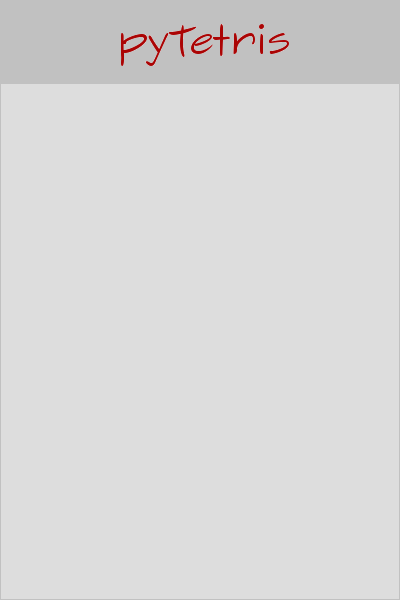
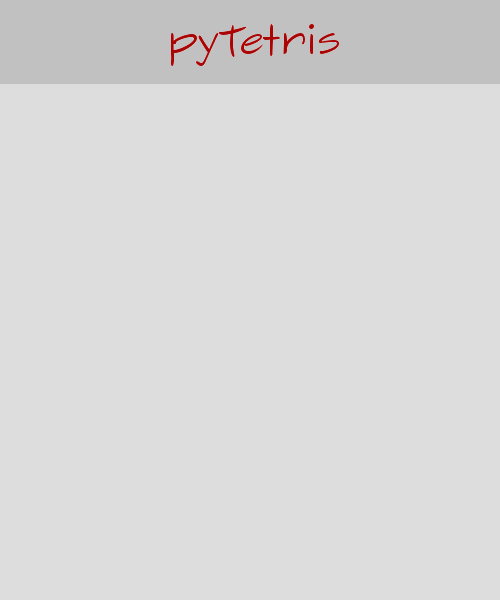
Linked classes
All classes will now link. You now start the application with Splash.py
instead of Tetris.py. Reason for this is because I want to keep splash
in separate file as this can be reused over and over again. Also started
with highscore and reading in data.

Changed region(s): [[0.0, 0.15, 1.0, 1.0], [0.3, 0.03, 0.72, 0.12]]

diff --git a/Tetris.py b/Tetris.py
@@ -1,3 +1,5 @@
+#!/usr/bin/env python
+# -*- coding: cp1252 -*-
 """
 Program created by mattias Didriksson as a project in "Multimediaprogrammering i Python".
 OS: Windows 7
@@ -7,8 +9,6 @@ This is a simple Tetris clone, made from scratch by me.
 
 """
 
-#! /usr/bin/env python
-#-*-coding:utf-8-*- 
 
 
 
@@ -20,8 +20,11 @@ from operator import itemgetter
 #The GUI class responsible for most of the program. Reason for that is because the GUI is such a central part of a program like Tetris.
 class GUI:
 	#A function which will initiate the class. I.e. set up windows, initiate attributes etc.
-	def init(self):
+	def init(self, sentScreen):
 		pygame.init()
+		
+		self.screen = sentScreen
+		self.screen.fill((0,0,0))
 		
 		self.nextPieces = []
 		
@@ -90,9 +93,7 @@ class GUI:
 
 		
 		
-		self.screen = pygame.display.set_mode((440,528), False)
-		
-		self.screen.blit(self.background, (0,0))
+		self.screen.blit(self.background, (24,0))
 		
 		self.newPiece()
 		self.newPiece()
@@ -107,32 +108,32 @@ class GUI:
 		
 		
 		self.displayLevel = self.scoreFont.render(str(self.level).rjust(2,"0"), True, (0,255,0))
-		self.screen.blit(self.displayLevel, (372, 43))
+		self.screen.blit(self.displayLevel, (387, 43))
 		
-		self.screen.blit(self.levelText, (270, 50))
+		self.screen.blit(self.levelText, (294, 50))
 		
-		self.screen.blit(self.scoreText, (290,140))
+		self.screen.blit(self.scoreText, (314,140))
 		
 		self.score = self.scoreFont.render(str(self.currentScore).rjust(7,"0"), True, (0,255,0))
-		self.screen.blit(self.score, (270,175))
+		self.screen.blit(self.score, (294,175))
 		
 		self.linesScore = self.scoreFont.render(str(self.linesCleared).rjust(3,"0"), True, (0,255,0))
-		self.screen.blit(self.linesScore, (354,90))
-		self.screen.blit(self.linesText, ( 270, 98))
+		self.screen.blit(self.linesScore, (378,90))
+		self.screen.blit(self.linesText, ( 294, 98))
 
 
 	
 	#Just as the name states this will take of redrawing the board.	
 	def reDraw(self):
-		self.screen.blit(self.background,(0,0))
+		self.screen.blit(self.background,(24,0))
 		self.updateScore()
 		for indexLine, line in enumerate(self.playArea):
 			y = indexLine * 24
 			for indexCol, item in enumerate(line):
-				x = indexCol * 24
+				x = indexCol * 24 + 24
 				if(item != "EMPTY"):
 					self.screen.blit(item, (x,y))
-					self.screen.blit(gui.topCover,(0,0))
+					self.screen.blit(gui.topCover,(24,0))
 					
 		self.piecesList()
 	
@@ -1480,25 +1481,25 @@ class GUI:
 		randomedPiece = random.randint(0, 6)
 		if randomedPiece == 0:
 			self.nextPieces.append(self.REVERSELMINI)
-			# self.addPiece("reverseL")
+
 		elif randomedPiece == 1:
 			self.nextPieces.append(self.LPIECEMINI)
-			# self.addPiece("L")
+
 		elif randomedPiece == 2:
 			self.nextPieces.append(self.LINEPIECEMINI)
-			# self.addPiece("linePiece")
+
 		elif randomedPiece == 3:
 			self.nextPieces.append(self.ZPIECEMINI)
-			# self.addPiece("zPiece")
+
 		elif randomedPiece == 4:
 			self.nextPieces.append(self.REVERSEZMINI)
-			# self.addPiece("reverseZ")
+
 		elif randomedPiece == 5:
 			self.nextPieces.append(self.SQUAREMINI)
-			# self.addPiece("square")
+		
 		elif randomedPiece == 6:
 			self.nextPieces.append(self.TPIECEMINI)
-			# self.addPiece("tPiece")
+			
 			
 	def levelUp(self):
 		self.level = self.level + 1
@@ -1508,7 +1509,7 @@ class GUI:
 	#Handles display of the coming pieces
 	def piecesList(self):
 		for index, item in enumerate(self.nextPieces):
-			self.screen.blit(item, (310,((index + 1) * 80 + 180)))
+			self.screen.blit(item, (334,((index + 1) * 80 + 180)))
 		
 		
 	
@@ -1528,13 +1529,14 @@ class Main:
 	#The main part of the program. The loop which will handle everything from updates to event-handling.
 	def loop(self):
 
-			
+		self.quit = False	
 		while self.running:
 			
 			for e in pygame.event.get():
 			
 				if e.type == QUIT:
 					self.running = False
+					self.quit = True
 				
 				if e.type == self.GAMEEVENT:
 					gui.lineDown()
@@ -1565,22 +1567,52 @@ class Main:
 			
 			
 			if self.gameOver:
-				gui.screen.blit(gui.gameOverImage, (45,60))
+				gui.screen.blit(gui.gameOverImage, (70,60))
 			
 			else:
 				gui.reDraw()
 				
 			self.clock.tick(40)
 			pygame.display.flip()
-				
-
-
-		pygame.quit()
-
-
 		
+		return self.quit
+
+
+class LoadData:
+
+
+	def readData(self):
+		self.highscoreList = []
+		self.newPlayer = True
+		try:
+			the_file = open("data.txt", "r")
+		except(IOError), e:
+			print "Nu gick något fel!", e
+			raw_input("Tryck på valfri tangent för att avsluta.")
+			sys.exit()
+		else:
+
+			for line in the_file:
+				if self.newPlayer:
+					self.player = line
+					self.player = self.player.replace("\n", "")
+					self.newPlayer = False
+				elif not self.newPlayer:
+					self.score = line
+					self.score = self.score.replace("\n", "")
+					self.newPlayer = True
+					self.highscoreList.append((self.player, self.score))
+
+			the_file.close()
+		return self.highscoreList		
+
+
+def start(screen):
+	gui.init(screen)
+	main.init()
+	shouldQuit = main.loop()
+	return shouldQuit
+	 
+
 gui = GUI()
 main = Main()
-gui.init()
-main.init()
-main.loop()

diff --git a/Splash.py b/Splash.py
@@ -1,5 +1,5 @@
 #! /usr/bin/env python
-import pygame, random, os.path
+import pygame, random, os.path, Tetris
 from pygame.locals import *
 from Tkinter import *
 from operator import itemgetter
@@ -7,7 +7,7 @@ from operator import itemgetter
 class Splash:
 	def init(self):
 		pygame.init()
-		self.screen = pygame.display.set_mode((400,200), False)
+		self.screen = pygame.display.set_mode((500,600), False)
 		self.background = pygame.Surface(self.screen.get_size())
 
 		self.finnished = False
@@ -26,9 +26,9 @@ class Splash:
 				self.background.fill((0,0,0))
 				self.screen.fill((0,0,0))
 				self.splashImage.set_alpha(self.count)
-				self.screen.blit(self.splashImage,(0,0))
+				self.screen.blit(self.splashImage,(50,150))
 				pygame.display.flip()
-				print self.count
+				self.count = self.count - 1
 				if self.count <0:
 					self.fadeIn = False
 					self.running = False
@@ -38,7 +38,7 @@ class Splash:
 				self.background.fill((0,0,0))
 				self.screen.fill((0,0,0))
 				self.splashImage.set_alpha(self.count)
-				self.screen.blit(self.splashImage,(0,0))
+				self.screen.blit(self.splashImage,(50,150))
 				pygame.display.flip()
 				self.count = self.count + 1
 				if self.count > 254:
@@ -49,7 +49,7 @@ class Splash:
 	def main(self):
 		while self.running:
 			self.fade()
-			self.clock.tick(40)
+			self.clock.tick(30)
 			for e in pygame.event.get():
 				if e.type == QUIT:
 					self.running = False
@@ -59,20 +59,20 @@ class Splash:
 						self.running = False
 					
 		menu = Menu()
-		menu.start()
+		menu.start(self.screen)
 		
 		
 
 		
-class Menu:
+class Menu():
 	
-	def start(self):
-		self.init()
+	def start(self, screen):
+		self.init(screen)
 		self.main()
 
-	def init(self):
-		pygame.init()
-		self.screen = pygame.display.set_mode((400, 600), False)
+	def init(self, sentScreen):
+		
+		self.screen = sentScreen
 
 		self.button = pygame.image.load(os.path.join('data','button.png'))
 		self.markedButton = pygame.image.load(os.path.join('data','markedButton.png'))
@@ -95,14 +95,14 @@ class Menu:
 			self.screen.blit(self.background,(0,0))
 			for n in range(4):
 				if self.choice == n:
-					self.screen.blit(self.markedButton, (40,n * 110 + 140))
+					self.screen.blit(self.markedButton, (90,n * 110 + 140))
 				else:
-					self.screen.blit(self.button, (40,n * 110 + 140))
+					self.screen.blit(self.button, (90,n * 110 + 140))
 			
-			self.screen.blit(self.start, (155, 152))
-			self.screen.blit(self.options, (140, 262))
-			self.screen.blit(self.highscore, (135, 372))
-			self.screen.blit(self.quit, (165, 482))
+			self.screen.blit(self.start, (205, 152))
+			self.screen.blit(self.options, (190, 262))
+			self.screen.blit(self.highscore, (185, 372))
+			self.screen.blit(self.quit, (215, 482))
 			pygame.display.flip()
 			self.clock.tick(20)
 			
@@ -114,9 +114,25 @@ class Menu:
 						if (self.choice < 3):
 							self.choice += 1
 					if e.key == K_UP:
-						if (self.choice > 0):
+						if self.choice > 0:
 							self.choice -= 1
-			
+
+							
+					if e.key == K_RETURN:
+						if self.choice == 0:
+							quit = Tetris.start(self.screen)
+							if quit:
+								self.running = False
+
+						if self.choice == 1:
+							pass
+								
+						if self.choice == 2:
+							loadData = Tetris.LoadData()
+						
+						if self.choice == 3:
+							self.running = False
+		
 		pygame.quit()
 			
 splash = Splash()
